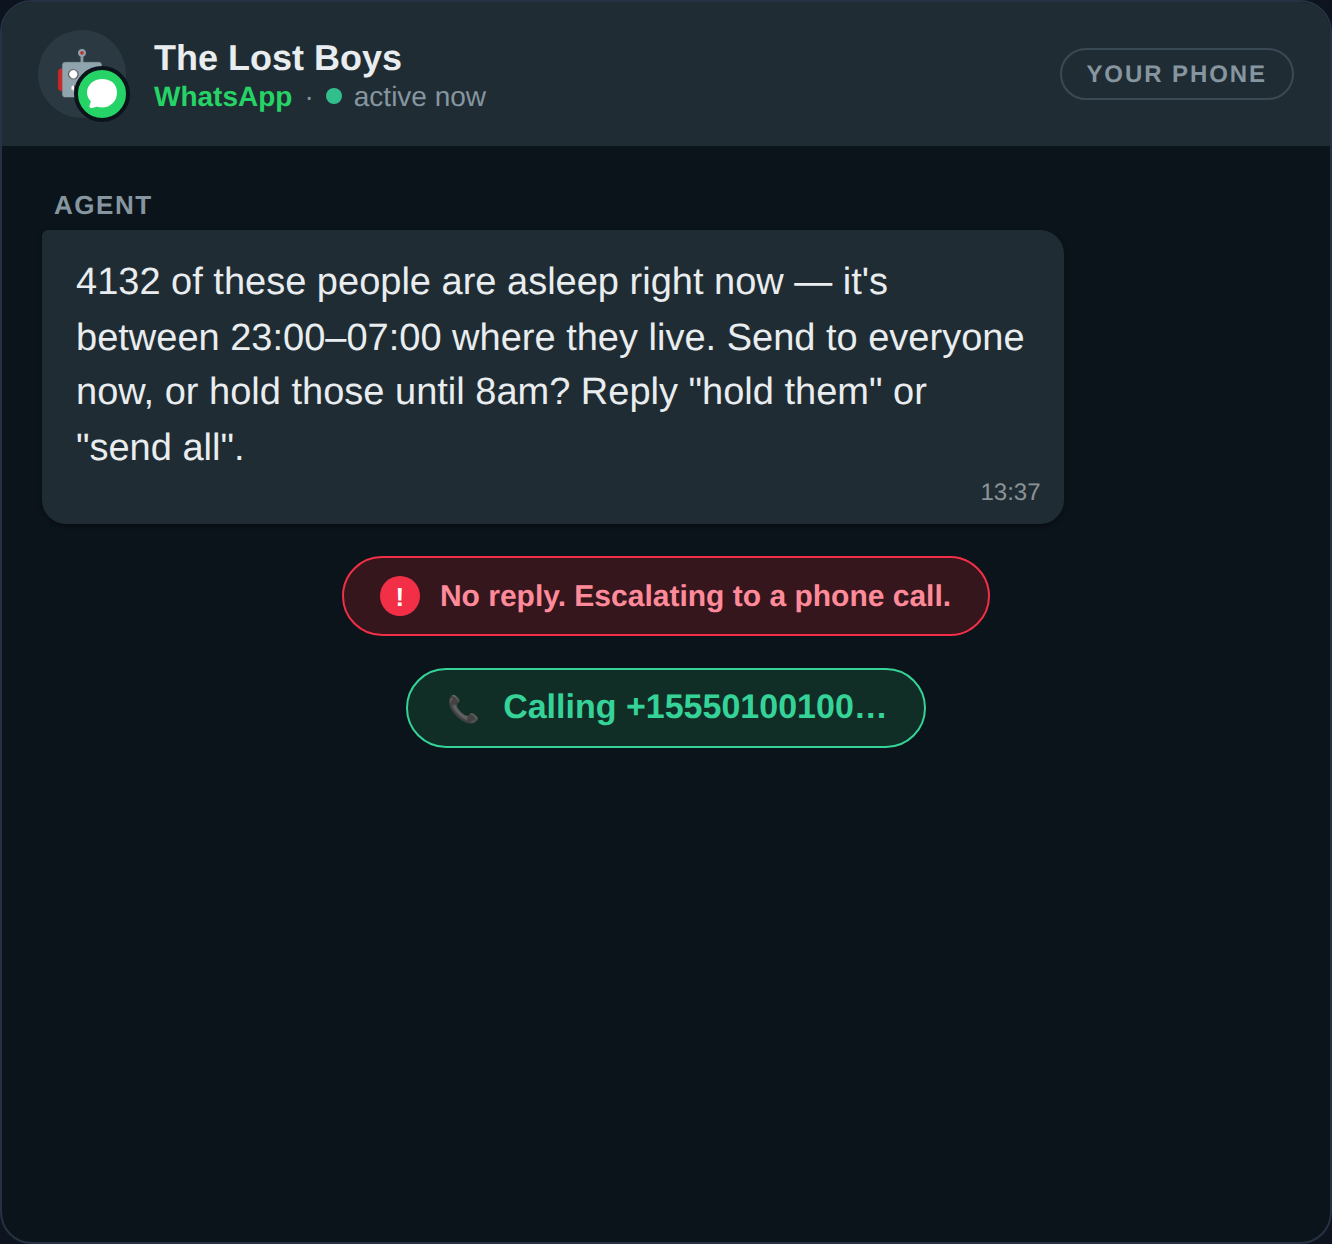
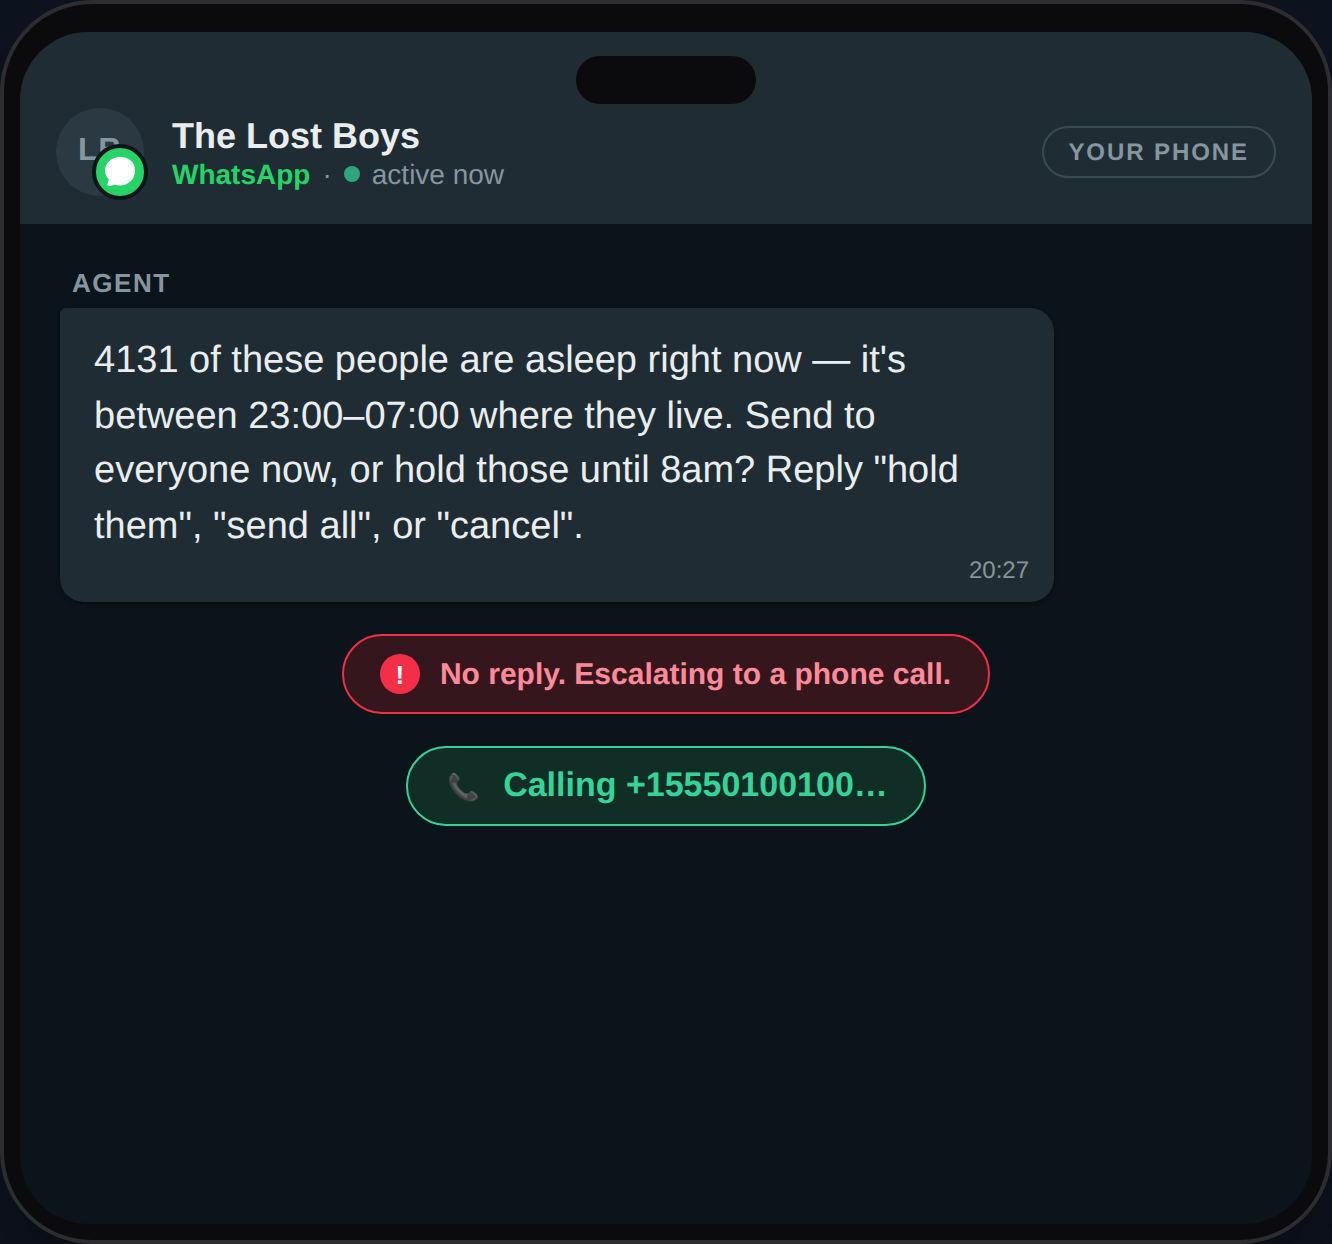
Regenerate README screenshots for the phone-skin/timeline UI change (#5)
Follows through on the approved look (merged in the sibling
iphone-skin-drop-robot PRs, twilio-demo #5 and this repo's #4): all
seven README images still showed the old chrome (robot avatar, no
phone frame, chat-style step cards).

Also fixed the capture script itself: it screenshotted `.phone`,
which is now just the inner screen -- the bezel/notch live on the new
wrapping `.phone-frame` element. Switched the locator so
02/03/04's phone screenshots actually show the new chrome instead of
silently cropping it out.

Re-ran the full capture (`playwright test --config=playwright.shots.config.ts`)
against a live practice-mode run rather than hand-editing images, so
every shot reflects real UI state. Verified: typecheck clean, 55+22
unit assertions pass, e2e suite (2/2) passes, and spot-checked
several of the regenerated images directly.

Claude-Session: https://claude.ai/code/session_01R8XirhXqSmMN7qBP6hmVG1

Changed region(s): [[0.0, 0.0, 1.0, 0.672], [0.9234, 0.9164, 1.0, 1.0], [0.0, 0.9469, 0.0616, 1.0]]

diff --git a/project/client/e2e-shots/capture.shots.ts b/project/client/e2e-shots/capture.shots.ts
@@ -15,7 +15,7 @@ test('capture the README screenshots', async ({ page }) => {
   mkdirSync(OUT, { recursive: true });
 
   const app = page.locator('.app');
-  const phone = page.locator('.phone');
+  const phone = page.locator('.phone-frame');
   const steps = page.locator('.steps-pane');
 
   await page.goto('/');
